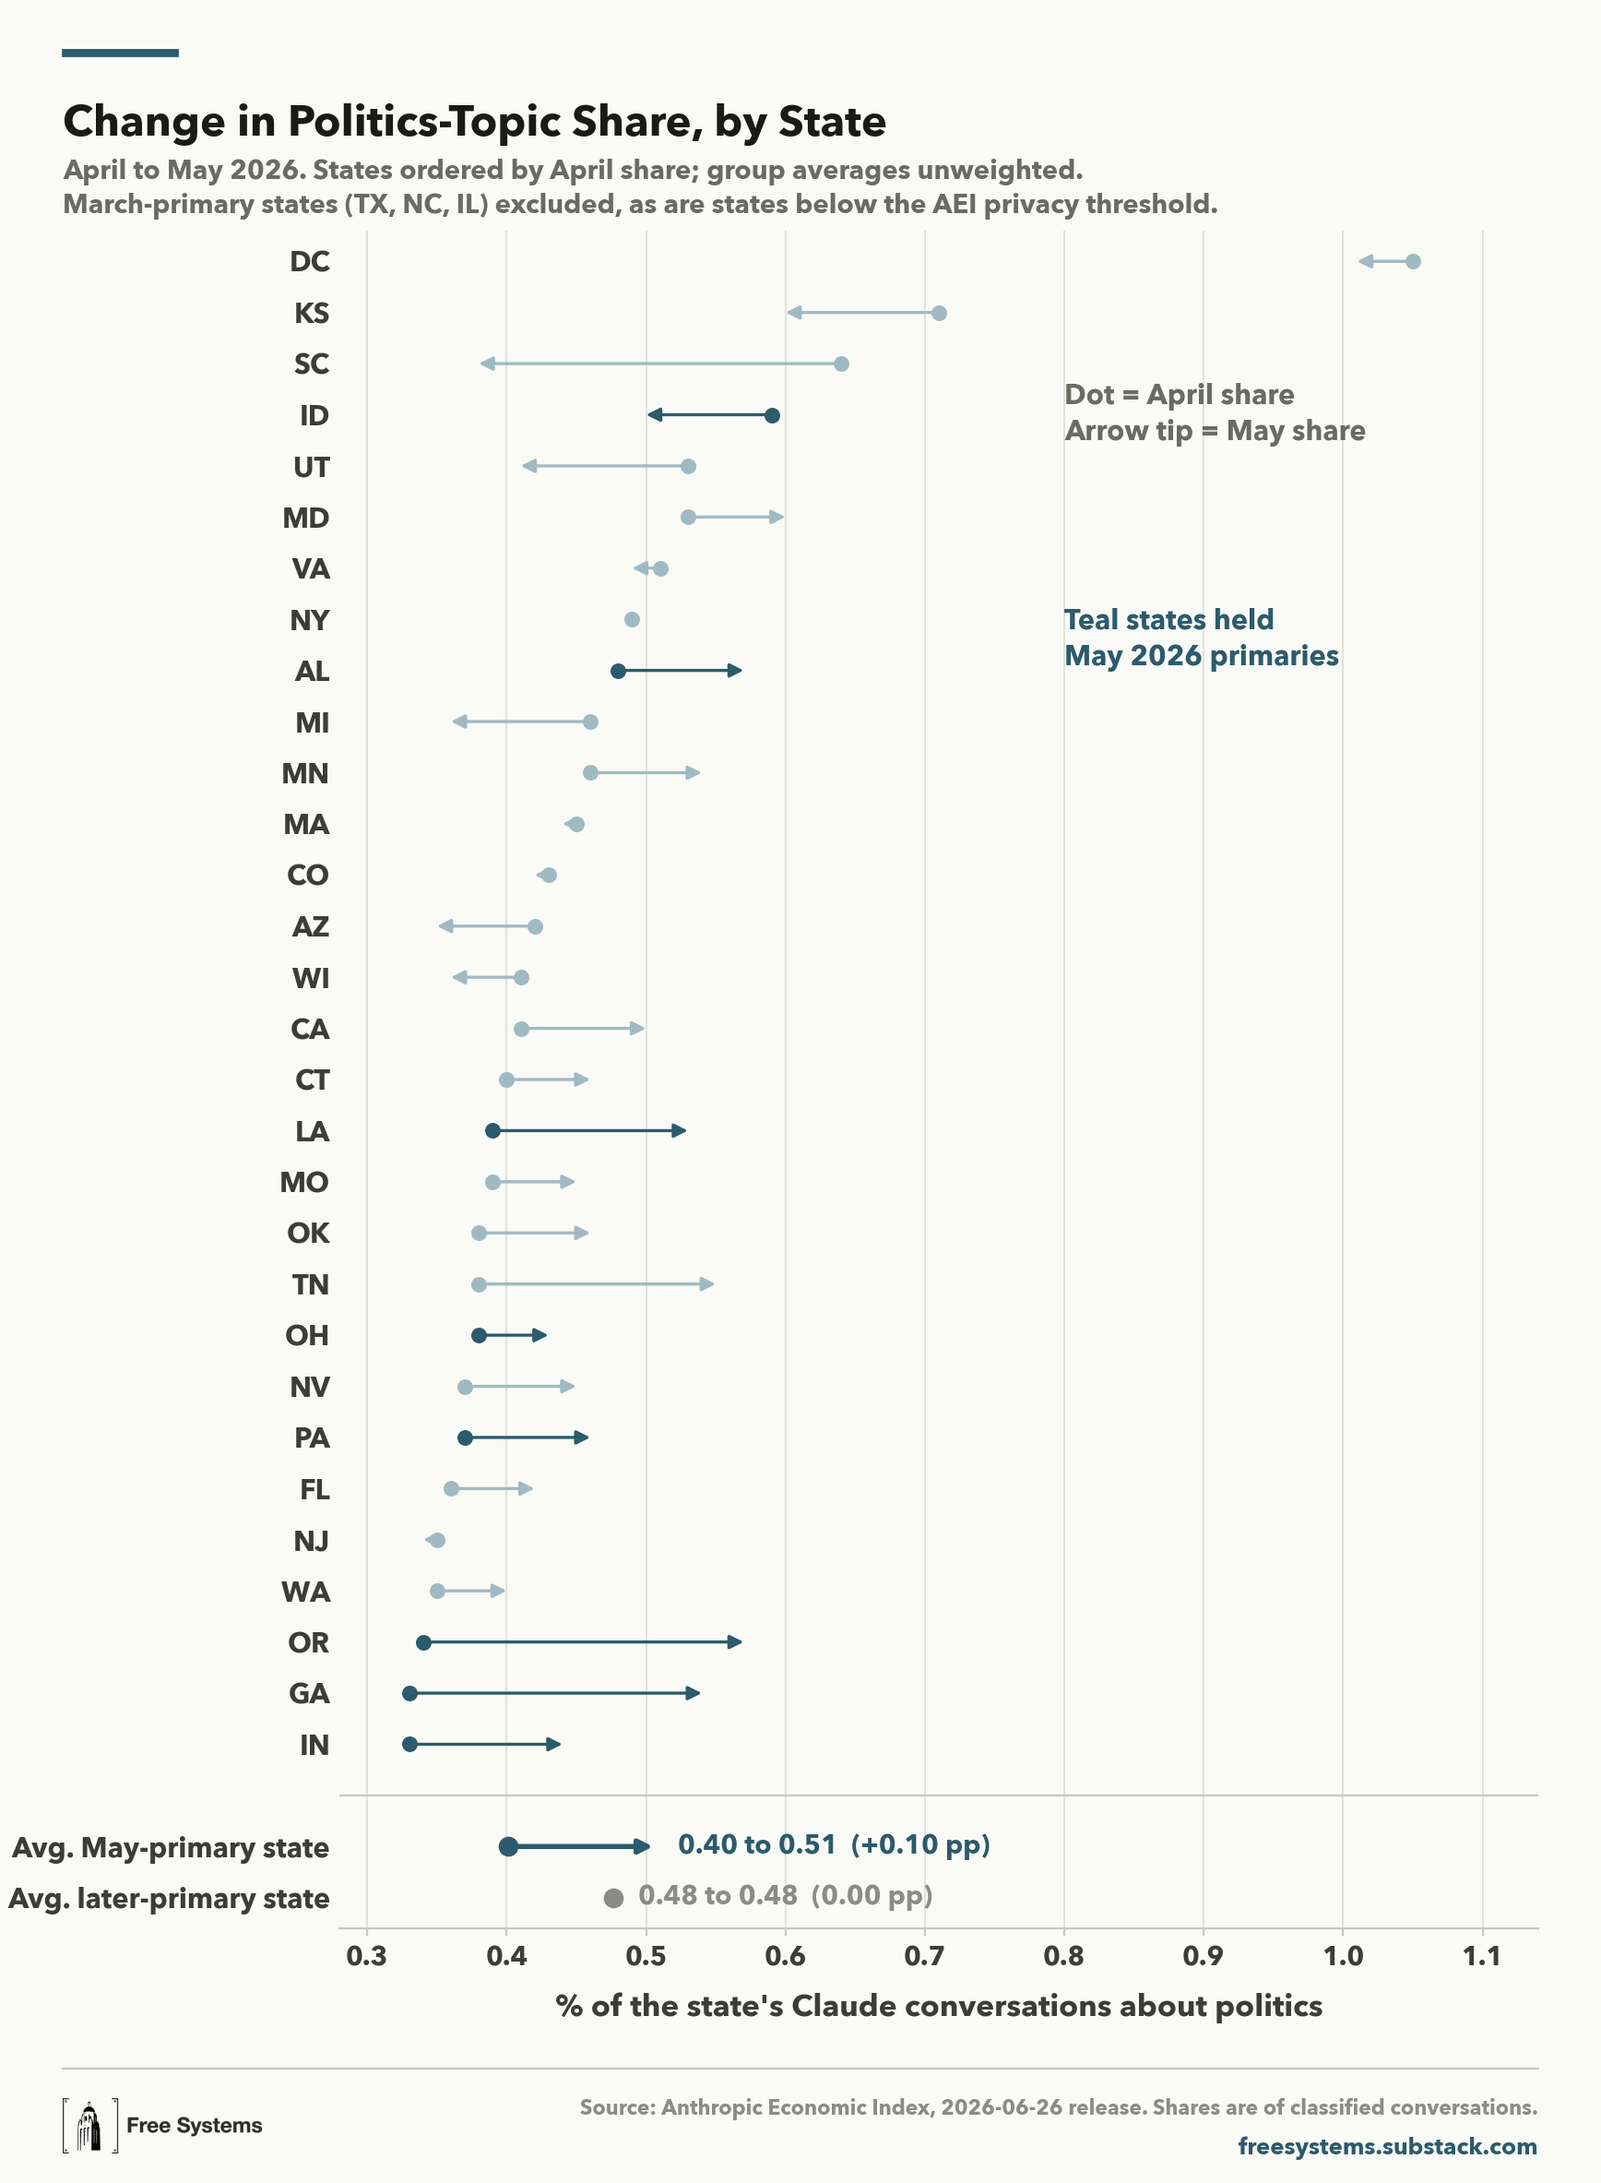
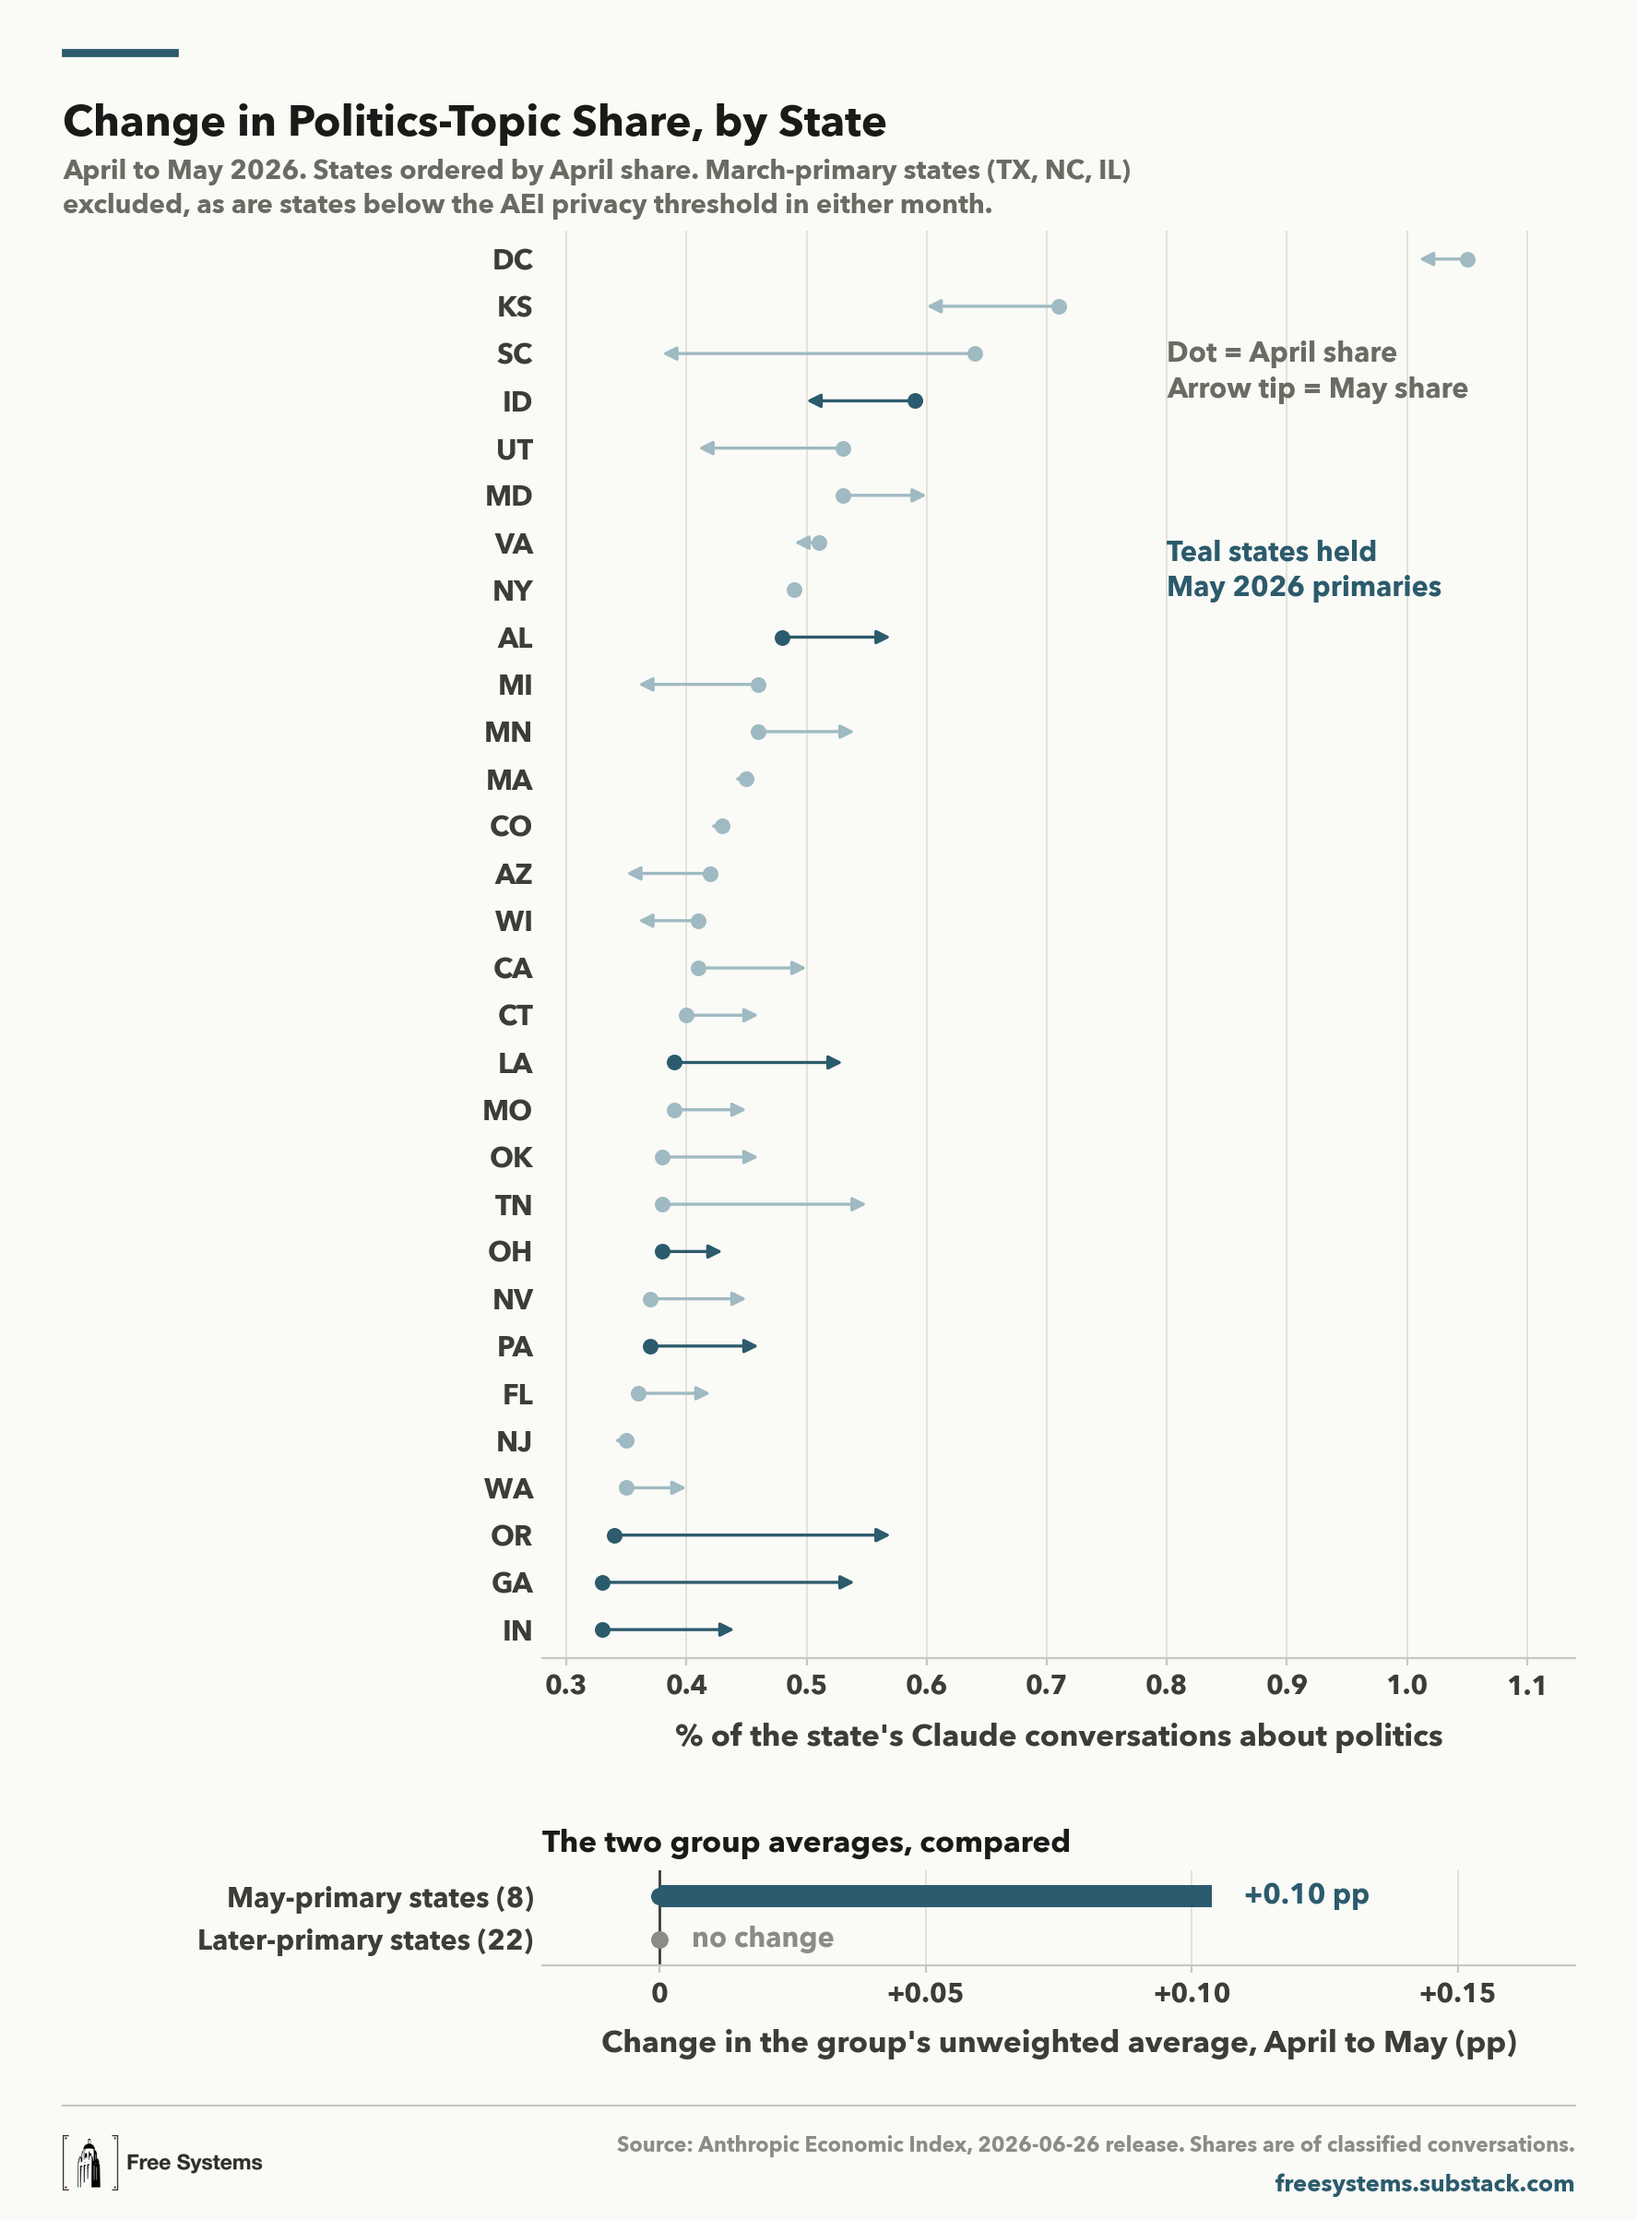
Split the group averages onto a change axis in the state figure
On a levels axis the later-primary average (0.48, flat) sits inside the
May-primary arrow's span (0.40 -> 0.51), so the eye compares where the groups
ended up and reads them as much the same. The figure's question is how far
each group MOVED, and a zero-length arrow carries no visual weight.

The averages now get their own lower panel on a change axis with a zero line:
a +0.10 pp bar against a marker at zero labelled "no change". Same numbers,
but the comparison the figure exists to make is now the thing you see.

diff --git a/code/memo/figures.py b/code/memo/figures.py
@@ -478,69 +478,76 @@ def _did_panel():
 
 def f6_arrows(axes, pal, fig):
     """Ported from code/make_politics_arrows.R (D. Thompson) into the post's
-    palette. Same data, same ordering, same annotations."""
+    palette, with the group averages split into their own panel.
+
+    Why two panels: on a levels axis the later-primary average (0.48, flat) sits
+    INSIDE the May-primary arrow's span (0.40 -> 0.51), so the eye compares
+    where the groups ended up and reads them as much the same. The question is
+    how far each MOVED, and a zero-length arrow has no visual weight at all.
+    The lower panel puts both changes on a change axis against a zero line,
+    where +0.10 against nothing is unmissable.
+    """
     d = _did_panel()
     w = (d.pivot_table(index=["state_po", "treat_may"], columns="post",
                        values="politics_broad").reset_index()
          .rename(columns={False: "apr", True: "may"}))
-    avg = (w.groupby("treat_may")[["apr", "may"]].mean().reset_index()
-           .assign(label=lambda x: np.where(x.treat_may, "Avg. May-primary state",
-                                            "Avg. later-primary state")))
+    avg = w.groupby("treat_may")[["apr", "may"]].mean()
+    n = w.groupby("treat_may").state_po.count()
     w = w.sort_values("apr", ascending=False)
-    w["label"] = w.state_po
 
+    # --- panel 1: every state, in levels ------------------------------------
     ax = axes[0]
-    # States top-down by April share, a rule, then the two group averages.
-    rows = list(w.itertuples()) + [None] + list(
-        avg.sort_values("treat_may", ascending=False).itertuples())
-    labels, sep_y = [], None
-    for y, r in enumerate(rows):
-        if r is None:
-            sep_y = y
-            labels.append("")
-            continue
-        is_avg = not hasattr(r, "state_po")
-        col = pal["accent"] if r.treat_may else (pal["muted"] if is_avg else pal["light"])
+    for y, r in enumerate(w.itertuples()):
+        col = pal["accent"] if r.treat_may else pal["light"]
         ax.annotate("", xy=(r.may, y), xytext=(r.apr, y),
-                    arrowprops=dict(arrowstyle="-|>", color=col,
-                                    linewidth=2.0 if is_avg else 1.2,
+                    arrowprops=dict(arrowstyle="-|>", color=col, linewidth=1.2,
                                     mutation_scale=11, shrinkA=0, shrinkB=0),
                     zorder=3)
-        ax.scatter(r.apr, y, s=46 if is_avg else 26, color=col, zorder=4)
-        if is_avg:
-            # Print the change on the two summary rows. The later-primary
-            # average moves by exactly 0.00 (10 states up, 11 down, 1 flat,
-            # cancelling), so its arrow has zero length and collapses to the
-            # dot -- without this label that reads as missing data rather than
-            # as the flat control trend the design turns on.
-            chg = r.may - r.apr
-            chg_txt = "0.00 pp" if abs(chg) < 0.005 else f"{chg:+.2f} pp"
-            ax.text(max(r.apr, r.may) + 0.018, y,
-                    f"{r.apr:.2f} to {r.may:.2f}  ({chg_txt})",
-                    va="center", ha="left", fontsize=pal["base"] - 0.5,
-                    fontweight="bold", color=col, zorder=5)
-        labels.append(r.label)
-
-    ax.axhline(sep_y, color=pal["rule"], lw=0.8, zorder=2)
-    ax.set_yticks(range(len(rows)))
-    ax.set_yticklabels(labels)
-    for t, r in zip(ax.get_yticklabels(), rows):
-        if r is not None and not hasattr(r, "state_po"):
-            t.set_fontweight("bold")      # the two group averages only
-    ax.set_ylim(len(rows) - 0.4, -0.6)
+        ax.scatter(r.apr, y, s=26, color=col, zorder=4)
+    ax.set_yticks(range(len(w)))
+    ax.set_yticklabels(w.state_po)
+    ax.set_ylim(len(w) - 0.4, -0.6)
     ax.set_xlim(0.28, 1.14)
     style_axes(ax, pal)
-    ax.text(0.80, 3.0, "Dot = April share\nArrow tip = May share", ha="left",
+    ax.text(0.80, 2.4, "Dot = April share\nArrow tip = May share", ha="left",
             va="center", fontsize=pal["base"], color=pal["strip"], linespacing=1.4)
-    ax.text(0.80, 7.4, "Teal states held\nMay 2026 primaries", ha="left",
+    ax.text(0.80, 6.6, "Teal states held\nMay 2026 primaries", ha="left",
             va="center", fontsize=pal["base"], color=pal["accent"],
             fontweight="bold", linespacing=1.4)
     ax.set_xlabel("% of the state's Claude conversations about politics",
                   fontsize=pal["base"] + 1, color=pal["axis"], labelpad=8)
+
+    # --- panel 2: the two group averages, as change -------------------------
+    ax2 = axes[1]
+    groups = [(True, pal["accent"], f"May-primary states ({n[True]})"),
+              (False, pal["muted"], f"Later-primary states ({n[False]})")]
+    ax2.axvline(0, color=pal["axis"], lw=1.0, zorder=2)
+    for y, (treated, col, lab) in enumerate(groups):
+        chg = avg.may[treated] - avg.apr[treated]
+        ax2.barh(y, chg, height=0.5, color=col, zorder=3)
+        # A marker at zero as well as the bar: the later-primary change is
+        # exactly 0.00, so without it that row would be blank.
+        ax2.scatter(0, y, s=34, color=col, zorder=4)
+        txt = "no change" if abs(chg) < 0.005 else f"{chg:+.2f} pp"
+        ax2.text(max(chg, 0) + 0.006, y, txt, va="center", ha="left",
+                 fontsize=pal["base"], fontweight="bold", color=col, zorder=5)
+    ax2.set_yticks(range(len(groups)))
+    ax2.set_yticklabels([g[2] for g in groups])
+    ax2.set_ylim(len(groups) - 0.4, -0.6)
+    ax2.set_xlim(-0.022, 0.172)
+    ax2.set_xticks([0, 0.05, 0.10, 0.15])
+    ax2.set_xticklabels(["0", "+0.05", "+0.10", "+0.15"])
+    style_axes(ax2, pal)
+    ax2.set_title("The two group averages, compared", loc="left",
+                  fontsize=pal["base"] + 1, fontweight="bold", color="#1A1A18",
+                  pad=7)
+    ax2.set_xlabel("Change in the group's unweighted average, April to May (pp)",
+                   fontsize=pal["base"] + 1, color=pal["axis"], labelpad=8)
+
     return ("Change in Politics-Topic Share, by State",
-            "April to May 2026. States ordered by April share; group averages "
-            "unweighted.\nMarch-primary states (TX, NC, IL) excluded, as are "
-            "states below the AEI privacy threshold.")
+            "April to May 2026. States ordered by April share. March-primary "
+            "states (TX, NC, IL)\nexcluded, as are states below the AEI privacy "
+            "threshold in either month.")
 
 
 def f7_spaghetti(axes, pal, fig):
@@ -616,7 +623,8 @@ FIGS = [
     dict(key="composition", fn=f5_composition, out="post_06_F5_how_conducted",
          w=10.6, h=5.8, rows=[3, 2, 6], left=4.6, bottom=0.66, memo=False),
     dict(key="politics_arrows", fn=f6_arrows, out="post_07_F6_politics_arrows",
-         w=8.0, h=9.2, rows=[1], left=1.5, bottom=0.66, memo=False),
+         w=8.2, h=9.4, rows=[30, 2], left=2.6, bottom=0.66, memo=False,
+         gap=1.15),   # room for panel 1's axis title above panel 2
     dict(key="did_spaghetti", fn=f7_spaghetti, out="post_08_F7_did_spaghetti",
          w=7.6, h=8.0, rows=[1, 1, 1], left=1.5, bottom=0.66, memo=False,
          head=1.72, gap=0.62),   # room for the per-panel titles
